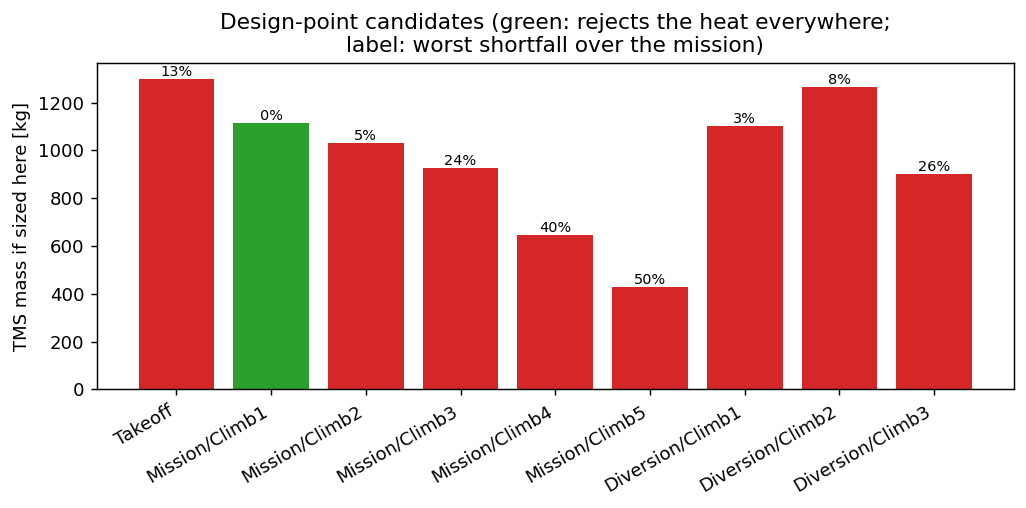
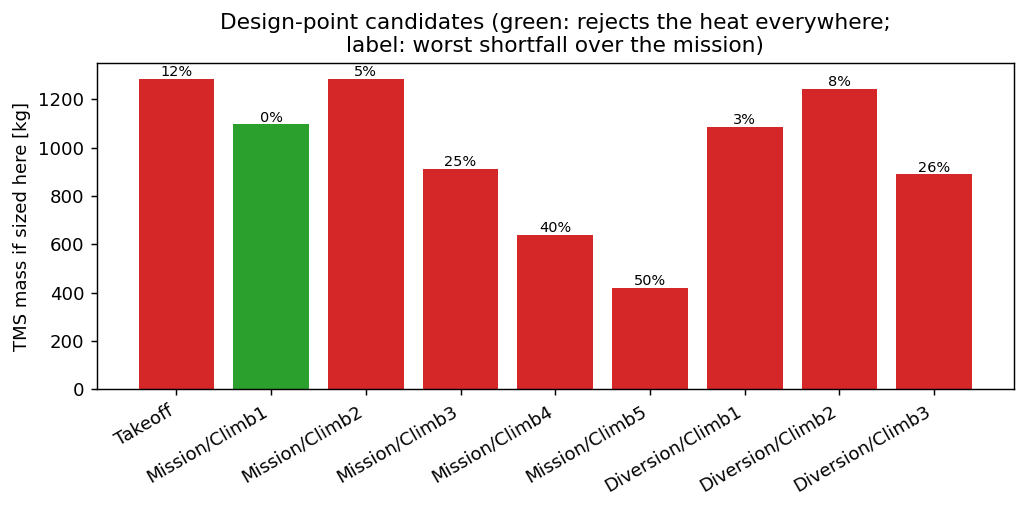
minor

diff --git a/trunk/validation/hydrogen_atr42_reference.py b/trunk/validation/hydrogen_atr42_reference.py
@@ -1,0 +1,102 @@
+"""Hydrogen fuel-cell variant of the ATR 42 reference, against published fuel-cell designs.
+
+Produces the numbers of section 2 of ``docs/user-guide/reference-aircraft.md``:
+
+1. the hydrogen variant (``examples/common.py: hydrogen_config()``) with the Class-I and the
+   Class-II thermal-management system: take-off weight, fuel-cell net rating, fuel-cell system
+   mass and TMS mass;
+2. the same aircraft flown on the mission inputs of Svensson, Oliveira and Groenstedt,
+   Int. J. Hydrogen Energy 61 (2024) 650, doi:10.1016/j.ijhydene.2024.02.382: 648 nm design
+   range, 100 nm alternate, 5,500 kg payload and a tank gravimetric index of 0.555. Their
+   resized all-fuel-cell ATR 42 has an MTOW of 21.05 t;
+3. the MTOW / payload ratio of the PhlyGreen variant and of the published designs listed in
+   the docs table (values as printed in each publication).
+
+Run from ``trunk/``:
+
+    python validation/hydrogen_atr42_reference.py
+"""
+
+import os
+import sys
+import warnings
+
+sys.path.insert(0, os.path.join(os.path.dirname(os.path.abspath(__file__)), "..", "examples"))
+
+import PhlyGreen as pg                                   # noqa: E402
+from PhlyGreen.config import TMSConfig                   # noqa: E402
+from common import hydrogen_config                       # noqa: E402
+
+# Published fuel-cell regional designs: (label, design range [nm], payload [kg], MTOW [kg]).
+# Sources and full citations: docs/user-guide/reference-aircraft.md, section 2.
+LITERATURE = [
+    ("Svensson et al. 2024 (50 pax)", 648, 5500, 21050),
+    ("Eissele et al. 2023 (50 pax, FC + battery)", 432, 5300, 19600),
+    ("Schlittenhardt et al. 2025 (70 pax)", 432, 6650, 23640),
+    ("FlyZero FZR-1E 2022 (75 pax)", 800, 7875, 28800),
+]
+
+# Svensson et al. (2024) mission inputs.
+SVENSSON_RANGE_NM = 648.0
+SVENSSON_DIVERSION_NM = 100.0
+SVENSSON_PAYLOAD_KG = 5500.0
+SVENSSON_GRAVIMETRIC_INDEX = 0.555
+SVENSSON_MTOW_KG = 21050.0
+
+
+def design(cfg):
+    """Size ``cfg`` and return the aircraft."""
+    aircraft = pg.build_aircraft()
+    aircraft.configure(cfg)
+    return aircraft
+
+
+def hydrogen_variant(tms_class):
+    """The hydrogen ATR 42 variant with the given TMS class ('I' or 'II')."""
+    cfg = hydrogen_config()
+    cfg.tms = TMSConfig(tms_class=tms_class)
+    return design(cfg)
+
+
+def svensson_mission(tms_class):
+    """The hydrogen variant flown on the Svensson et al. (2024) mission inputs."""
+    cfg = hydrogen_config()
+    cfg.tms = TMSConfig(tms_class=tms_class)
+    cfg.mission.range_mission = SVENSSON_RANGE_NM
+    cfg.mission.range_diversion = SVENSSON_DIVERSION_NM
+    cfg.mission.payload_weight = SVENSSON_PAYLOAD_KG
+    cfg.energy.h2_gravimetric_index = SVENSSON_GRAVIMETRIC_INDEX
+    return design(cfg)
+
+
+def summary_row(label, aircraft):
+    r = aircraft.results()
+    return (f"{label:34s} {r.WTO:9.0f} {aircraft.fuelcell.P_fc_rated / 1e6:9.3f} "
+            f"{r.WPT:10.0f} {r.hex_mass:8.0f} {r.WTO / r.WPayload:8.2f}")
+
+
+def main():
+    warnings.simplefilter("ignore")
+    header = (f"{'case':34s} {'MTOW kg':>9s} {'FC MW':>9s} {'FC sys kg':>10s} "
+              f"{'TMS kg':>8s} {'MTOW/PL':>8s}")
+
+    print("=== Hydrogen ATR 42 variant (750 nm + 220 nm, 4,560 kg payload) ===")
+    print(header)
+    for cls in ("I", "II"):
+        print(summary_row(f"TMS Class {cls}", hydrogen_variant(cls)))
+
+    print("\n=== Svensson et al. (2024) mission inputs "
+          "(648 nm + 100 nm, 5,500 kg, gravimetric index 0.555) ===")
+    print(header)
+    for cls in ("I", "II"):
+        a = svensson_mission(cls)
+        print(summary_row(f"TMS Class {cls}", a)
+              + f"   {100 * (a.weight.WTO / SVENSSON_MTOW_KG - 1):+5.1f} % vs 21,050 kg")
+
+    print("\n=== Published designs, MTOW / payload ===")
+    for label, rng, payload, mtow in LITERATURE:
+        print(f"{label:44s} {rng:5.0f} nm {payload:6.0f} kg {mtow:7.0f} kg   {mtow / payload:5.2f}")
+
+
+if __name__ == "__main__":
+    main()

diff --git a/docs/user-guide/reference-aircraft.md b/docs/user-guide/reference-aircraft.md
@@ -116,10 +116,10 @@ the powertrain:
 
 | Result | TMS Class I | TMS Class II |
 |---|---|---|
-| MTOW | 21.7 t | 22.4 t |
+| MTOW | 21.6 t | 22.3 t |
 | Fuel-cell rating | 3.9 MW | 4.0 MW |
-| Fuel-cell system | 2.41 t | 2.50 t |
-| TMS | 0.96 t | 1.11 t |
+| Fuel-cell system | 2.40 t | 2.49 t |
+| TMS | 0.94 t | 1.10 t |
 
 ### Comparison with published fuel-cell regional designs
 
@@ -129,16 +129,16 @@ the powertrain:
 | Eissele et al., *Aerospace* 10 (2023) 277, [doi:10.3390/aerospace10030277](https://doi.org/10.3390/aerospace10030277) | 50 pax, fuel cell + battery | 5,300 kg | 800 km (432 nm) + reserves | 19.6 t |
 | Schlittenhardt et al., *Aerospace* 12 (2025) 249, [doi:10.3390/aerospace12030249](https://doi.org/10.3390/aerospace12030249) | 70 pax, distributed propulsion | 6,650 kg | 800 km (432 nm) | 23.64 t |
 | ATI FlyZero, *Zero-carbon emission aircraft concepts*, FZO-AIN-REP-0007 (2022), FZR-1E | 75 pax, 6 propulsors | 7,875 kg | 800 nm | 28.8 t |
-| **PhlyGreen** (this variant) | 48 pax, twin | 4,560 kg | 750 nm + 220 nm diversion | 21.7 / 22.4 t |
+| **PhlyGreen** (this variant) | 48 pax, twin | 4,560 kg | 750 nm + 220 nm diversion | 21.6 / 22.3 t |
 
 ![Hydrogen variant vs literature](../images/reference/h2_vs_literature.png){ width="640px" }
 
 The take-off weight is close to the comparable 50-seat designs. The ratio MTOW/payload is
-≈ 25 % higher (4.8–4.9 against 3.6–3.8), for two reasons. The payload is smaller, and the
+25–30 % higher (4.7–4.9 against 3.7–3.8 for the two 50-seat designs), for two reasons. The payload is smaller, and the
 mission is longer: 750 nm with a 220 nm diversion, against at most 648 nm with a 100 nm
 alternate in the others. Run with Svensson et al.'s mission inputs (648 nm + 100 nm, 5,500 kg,
-gravimetric index 0.555), PhlyGreen gives 22.6 t (TMS Class I) and 23.1 t (Class II), i.e.
-7–10 % above their 21.05 t.
+gravimetric index 0.555), PhlyGreen gives 22.5 t (TMS Class I) and 23.1 t (Class II), i.e.
+7–10 % above their 21.05 t. These numbers come from `trunk/validation/hydrogen_atr42_reference.py`.
 
 ---
 
@@ -170,12 +170,12 @@ The validated variant is the A320-214 with CFM56-5B4, weight variant **WV017**.
 
 ### Results
 
-| Quantity | Reference | A: minimum installed thrust (463 kg/m²) | B: landing-limited (583 kg/m²) |
+| Quantity | Reference | A: minimum installed thrust (468 kg/m²) | B: landing-limited (583 kg/m²) |
 |---|---|---|---|
-| MTOW | 78,000 kg | 80,373 kg (+3.0 %) | 75,954 kg (−2.6 %) |
-| OEW (secondary) | 42,600 kg | 43,407 kg (+1.9 %) | 41,478 kg (−2.6 %) |
-| Wing area (secondary) | 122.6 m² | 173.6 m² (+41.6 %) | 130.4 m² (+6.3 %) |
-| SLS thrust | 240.2 kN | 258.1 kN (+7.4 %) | 242.3 kN (+0.9 %) |
+| MTOW | 78,000 kg | 79,884 kg (+2.4 %) | 75,653 kg (−3.0 %) |
+| OEW (secondary) | 42,600 kg | 43,194 kg (+1.4 %) | 41,345 kg (−2.9 %) |
+| Wing area (secondary) | 122.6 m² | 170.7 m² (+39.3 %) | 129.9 m² (+5.9 %) |
+| SLS thrust | 240.2 kN | 240.1 kN (−0.1 %) | 227.4 kN (−5.3 %) |
 
 ![A320 vs reference](../images/reference/a320_vs_reference.png){ width="560px" }
 
@@ -203,5 +203,6 @@ cd trunk
 python examples/28_reference_atr42.py      # ATR 42-600: inputs, comparison, figures
 python examples/29_reference_a320.py       # A320-200: inputs, both design points, figures
 python validation/a320_reference.py        # full A320 validation (OEW calibration, payload-range)
+python validation/hydrogen_atr42_reference.py   # hydrogen variant and Svensson et al. mission
 cd .. && python docs/scripts/make_figures.py   # regenerate every figure on this page
 ```

diff --git a/README.md b/README.md
@@ -1,4 +1,7 @@
 # PhlyGreen
+
+[![Documentation Status](https://img.shields.io/badge/docs-online-success)](https://rmalpica.github.io/PhlyGreen/)
+
 A python tool for the preliminary design of novel aircraft concepts for a more sustainable air mobility.
 
 This code is under development at Sapienza University of Roma (Italy).
